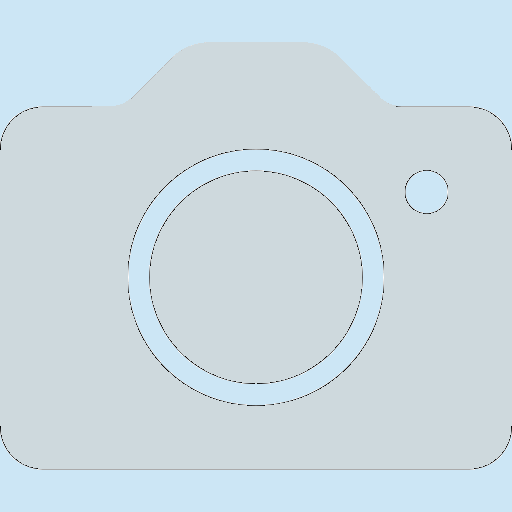
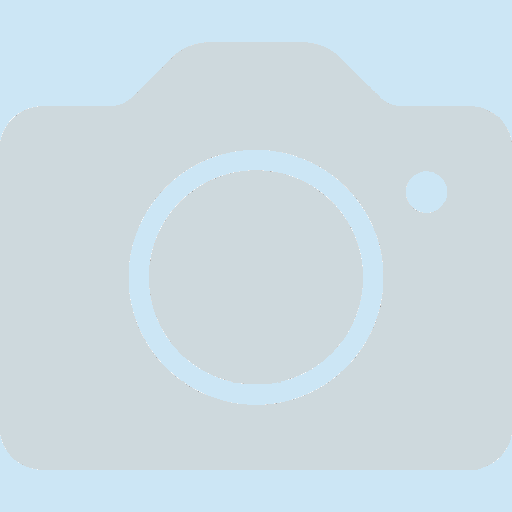
changes in layout 5

diff --git a/app/apps/jornalistas/templates/jornalistas/pages/cadastro.html b/app/apps/jornalistas/templates/jornalistas/pages/cadastro.html
@@ -34,8 +34,10 @@
         <form method="POST" action="" class="form-cadastro col-md-10" enctype='multipart/form-data' id='form_jornalista'>
           {% csrf_token %}
 
-          <div class="row" id = "row_perfil_picture" style="height: 100px;">
+          <div class="row" id = "row_perfil_picture" >
             <div class="col-md-10">
+              <label for="input_profile_photo">
+
                <div class="foto-perfil">
                   <!--
                   <img
@@ -57,69 +59,76 @@
 
                   <div class="profile_picture">
                     <!--<i class="bi bi-camera"></i> -->
-                    <img src="{% static 'jornalistas/img/camera.png' %} ">
+                    <img src="{% static 'jornalistas/img/camera.png' %} "/>
                   </div>
                 </div>
+              </label>
             </div>
+
+            <input type="file" name="profile_photo" id="input_profile_photo"/>
           </div>
 
           <div class="row">
+
             <div class="col-md-10">
 
-                <div class="container  col-md-8 mx-auto">
-                  <p class="alert alert-warning
-                    " 
-                    id ="alert_cadastro">Em Dados Pessoais, marque a caixinha ao lado de cada item para selecionar os dados que deseja exibir para a comunidade do DPJB. Caso contrário, eles serão ocultados no seu perfil.</p>
-                </div>
+              <div class="my-card card-jornalista w-75">
 
-                <div class="my-card card-jornalista w-75">
+                <!-- field of login data !-->
+                <div id="login_data">
                   <div class="titulo">
                     <div class="circ-l"> </div>   
                     Dados de Login
                   </div>
 
                   {% include "jornalistas/partials/form_usuario.html" %}
+                </div>
+                <!-- end of field of login data !-->
 
+                <!-- field of personal data !-->
+                <div id="personal_data">
                   <div class="titulo">
                     <div class="circ-l"> </div>   
                     Dados Pessoais
                   </div>
                 
                   {% include "jornalistas/partials/form_dados_pessoais.html" %}
+                </div>
+                <!-- end of field of personal data !-->
 
-                  <h2 class="subtitulo">Redes Sociais</h2>
+                <h2 class="subtitulo">Redes Sociais</h2>
 
-                  {% include "jornalistas/partials/form_redes_sociais.html" %}
-              
+                {% include "jornalistas/partials/form_redes_sociais.html" %}
+            
 
-                  <div class="titulo">
+                <div class="titulo">
                     <div class="circ-l"> </div>   
                     Formação
-                  </div>
-                  
-                  {% include "jornalistas/partials/form_formacao.html" %}
+                </div>
+                
+                {% include "jornalistas/partials/form_formacao.html" %}
 
-                  <div class="titulo">
-                    <div class="circ-l"> </div>   
-                    Currículo
-                  </div>
-                  
-                  <div class="container text-center">
-                    {{ jornalista_form.curriculo }}
-                    {% if jornalista_form.curriculo.errors %}
-                      {% for error in jornalista_form.curriculo.errors %}
-                        <div class="alert alert-danger"> {{ error }}</div>
-                      {% endfor %}
-                    {% endif %}
-                    {% if jornalista_form.curriculo.help_text %}
-                      <small  class="text-muted">
-                          {{  jornalista_form.curriculo.help_text }}
-                      </small>
-                    {% endif %}
-                  </div>
-                  
-                  <div class="separador"> </div> 
-                  <input type="hidden" id='is_revisor' name='is_revisor'>
+                <div class="titulo">
+                  <div class="circ-l"> </div>   
+                  Currículo
+                </div>
+                
+                <div class="container text-center">
+                  {{ jornalista_form.curriculo }}
+                  {% if jornalista_form.curriculo.errors %}
+                    {% for error in jornalista_form.curriculo.errors %}
+                      <div class="alert alert-danger"> {{ error }}</div>
+                    {% endfor %}
+                  {% endif %}
+                  {% if jornalista_form.curriculo.help_text %}
+                    <small  class="text-muted">
+                        {{  jornalista_form.curriculo.help_text }}
+                    </small>
+                  {% endif %}
+                </div>
+                
+                <div class="separador"> </div> 
+                <input type="hidden" id='is_revisor' name='is_revisor'>
                 
                 </div>
             </div>
@@ -134,8 +143,8 @@
               </div>
             </div>
           </div>
-
         </form>
+      </div>
   </body>
 </main>
 {% endblock content %}
@@ -143,6 +152,7 @@
 {% block scripts %}
 <script src="https://cdn.jsdelivr.net/npm/select2@4.1.0-rc.0/dist/js/select2.min.js"></script>
 <script src="{% static 'jornalistas/js/alert_revisor.js' %}"></script>
+<script src="{% static 'jornalistas/js/jornalista_cadastro.js' %}"></script>
 <script src="{% static 'global/js/jquery.formset.js' %}"></script>
 <script>
   $(".select2").select2({

diff --git a/app/apps/jornalistas/static/jornalistas/js/jornalista_cadastro.js b/app/apps/jornalistas/static/jornalistas/js/jornalista_cadastro.js
@@ -1,0 +1,30 @@
+
+let number_of_alert_persona_data = 0
+const alert_personal_data = `
+<!-- alert for personal data form -->
+              <div class="container alert alert-warning  alert-dismissible fade col-md-10 mx-auto show">
+
+                <p class="" 
+                  id ="alert_cadastro">Em Dados Pessoais, marque a caixinha ao lado de cada item para selecionar os dados que deseja exibir para a comunidade do DPJB. Caso contrário, eles serão ocultados no seu perfil.
+                </p>
+
+                <button type="button" class="btn btn-close" data-bs-dismiss="alert">
+                </button>
+              </div>
+`
+
+
+function filling_personal_data() {
+  if (number_of_alert_persona_data == 0) {
+    let div_alert = document.createElement("div");
+    div_alert.innerHTML = alert_personal_data
+    login_data.append(div_alert);
+    number_of_alert_persona_data+=1
+  }
+
+}
+
+let login_data = document.getElementById("login_data");
+let personal_data_= document.getElementById("personal_data");
+
+personal_data.addEventListener("click", filling_personal_data);

diff --git a/app/base_static/global/css/cadastro.css b/app/base_static/global/css/cadastro.css
@@ -38,7 +38,7 @@ a:hover {
     display: flex;
     align-items: center;
     justify-content: center;
-    padding-top: 4vh;
+    /*padding-top: 4vh;*/
     flex-direction: column;
     gap: 4vh;
   }
@@ -283,27 +283,44 @@ a:hover {
 }
 
 .profile_picture {
+  box-sizing: border-box;
   background: #CCE6F5;
   border-color: #CED9DD;
-  border-type: solid;
-  border-width: 20px;
+  border-style: solid;
+  border-width: 5px;
   border-radius: 100%;
   z-index: 2;
   position: static;
-  width: 20%;
-  height: 20%;
-  padding: 3%;
-  margin: 3%;
+  width: 10%;
+  height: 25%;
+
+  display: flex;
+  justify-content: center;
+  cursor: ponter;
+
 }
 
 .profile_picture img {
-  width: 100%;
-  height: 100%;
+  box-sizing: border-box;
+  width: 40%;
+  height: 40%;
+  padding-top: 30%;
+  padding-bottom: 30%;
+
 }
 
 #row_perfil_picture {
-  height: 10s%;
+  height: 10%;
+  position: relative;
+  top: 50px;
+  margin-top: 3%vh;
 }
+
+
+input[type="file"] {
+  display: none;
+}
+
 
 .btn-centralizar {
   margin: 4vh auto
